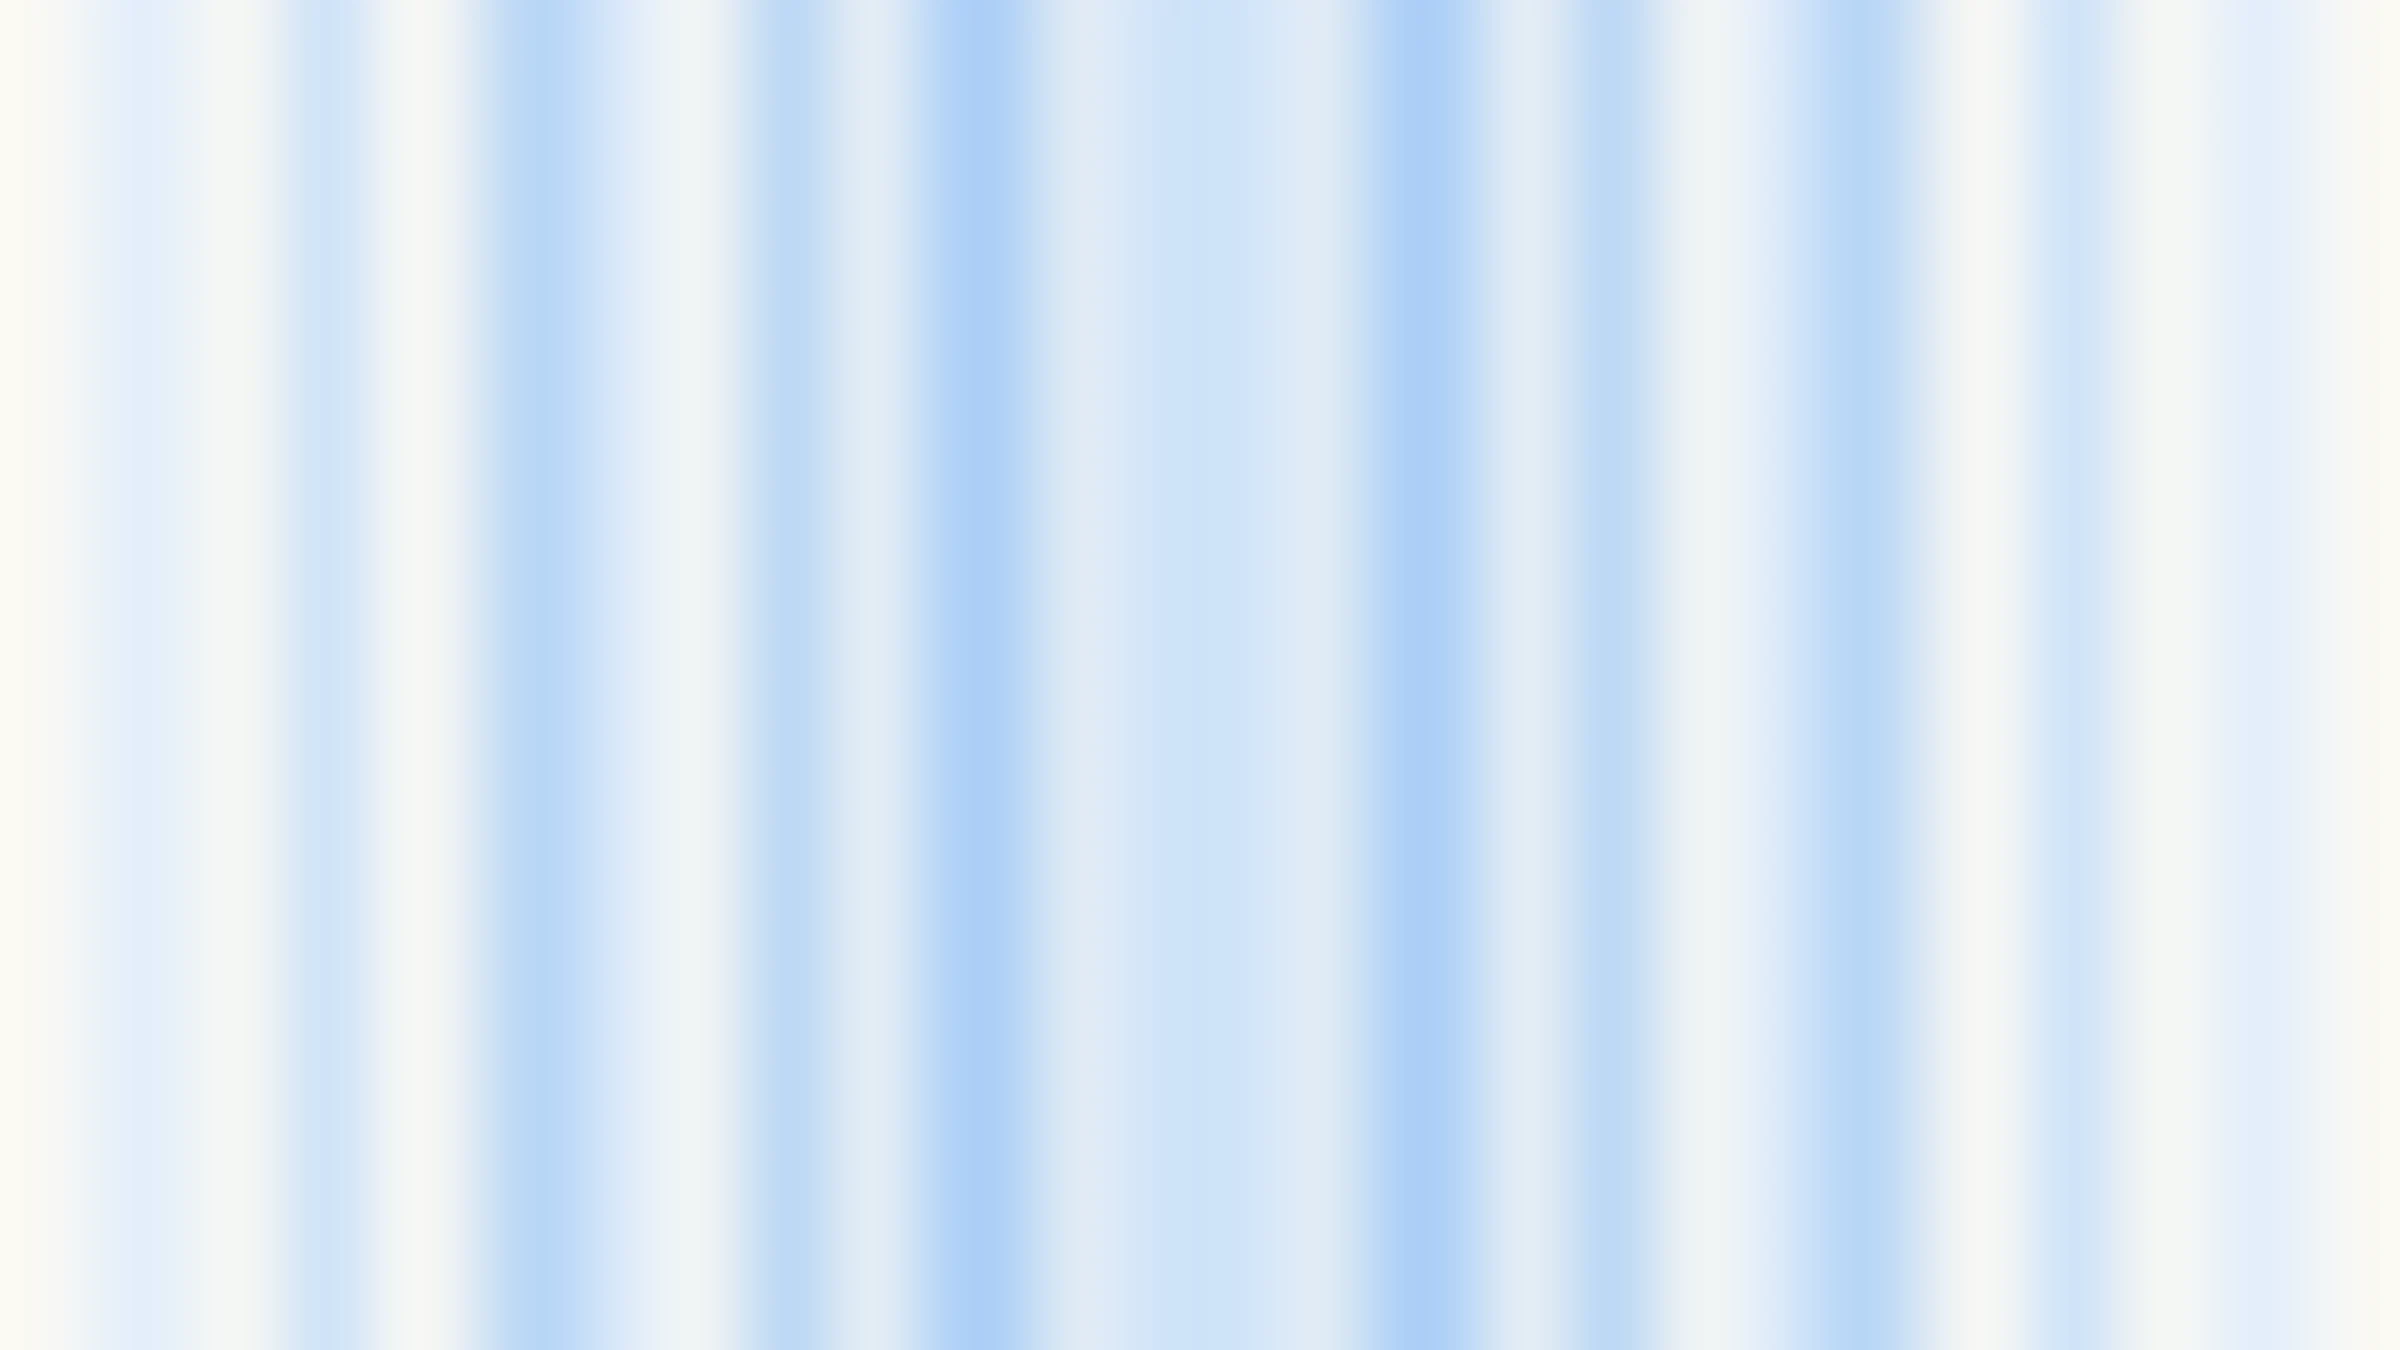
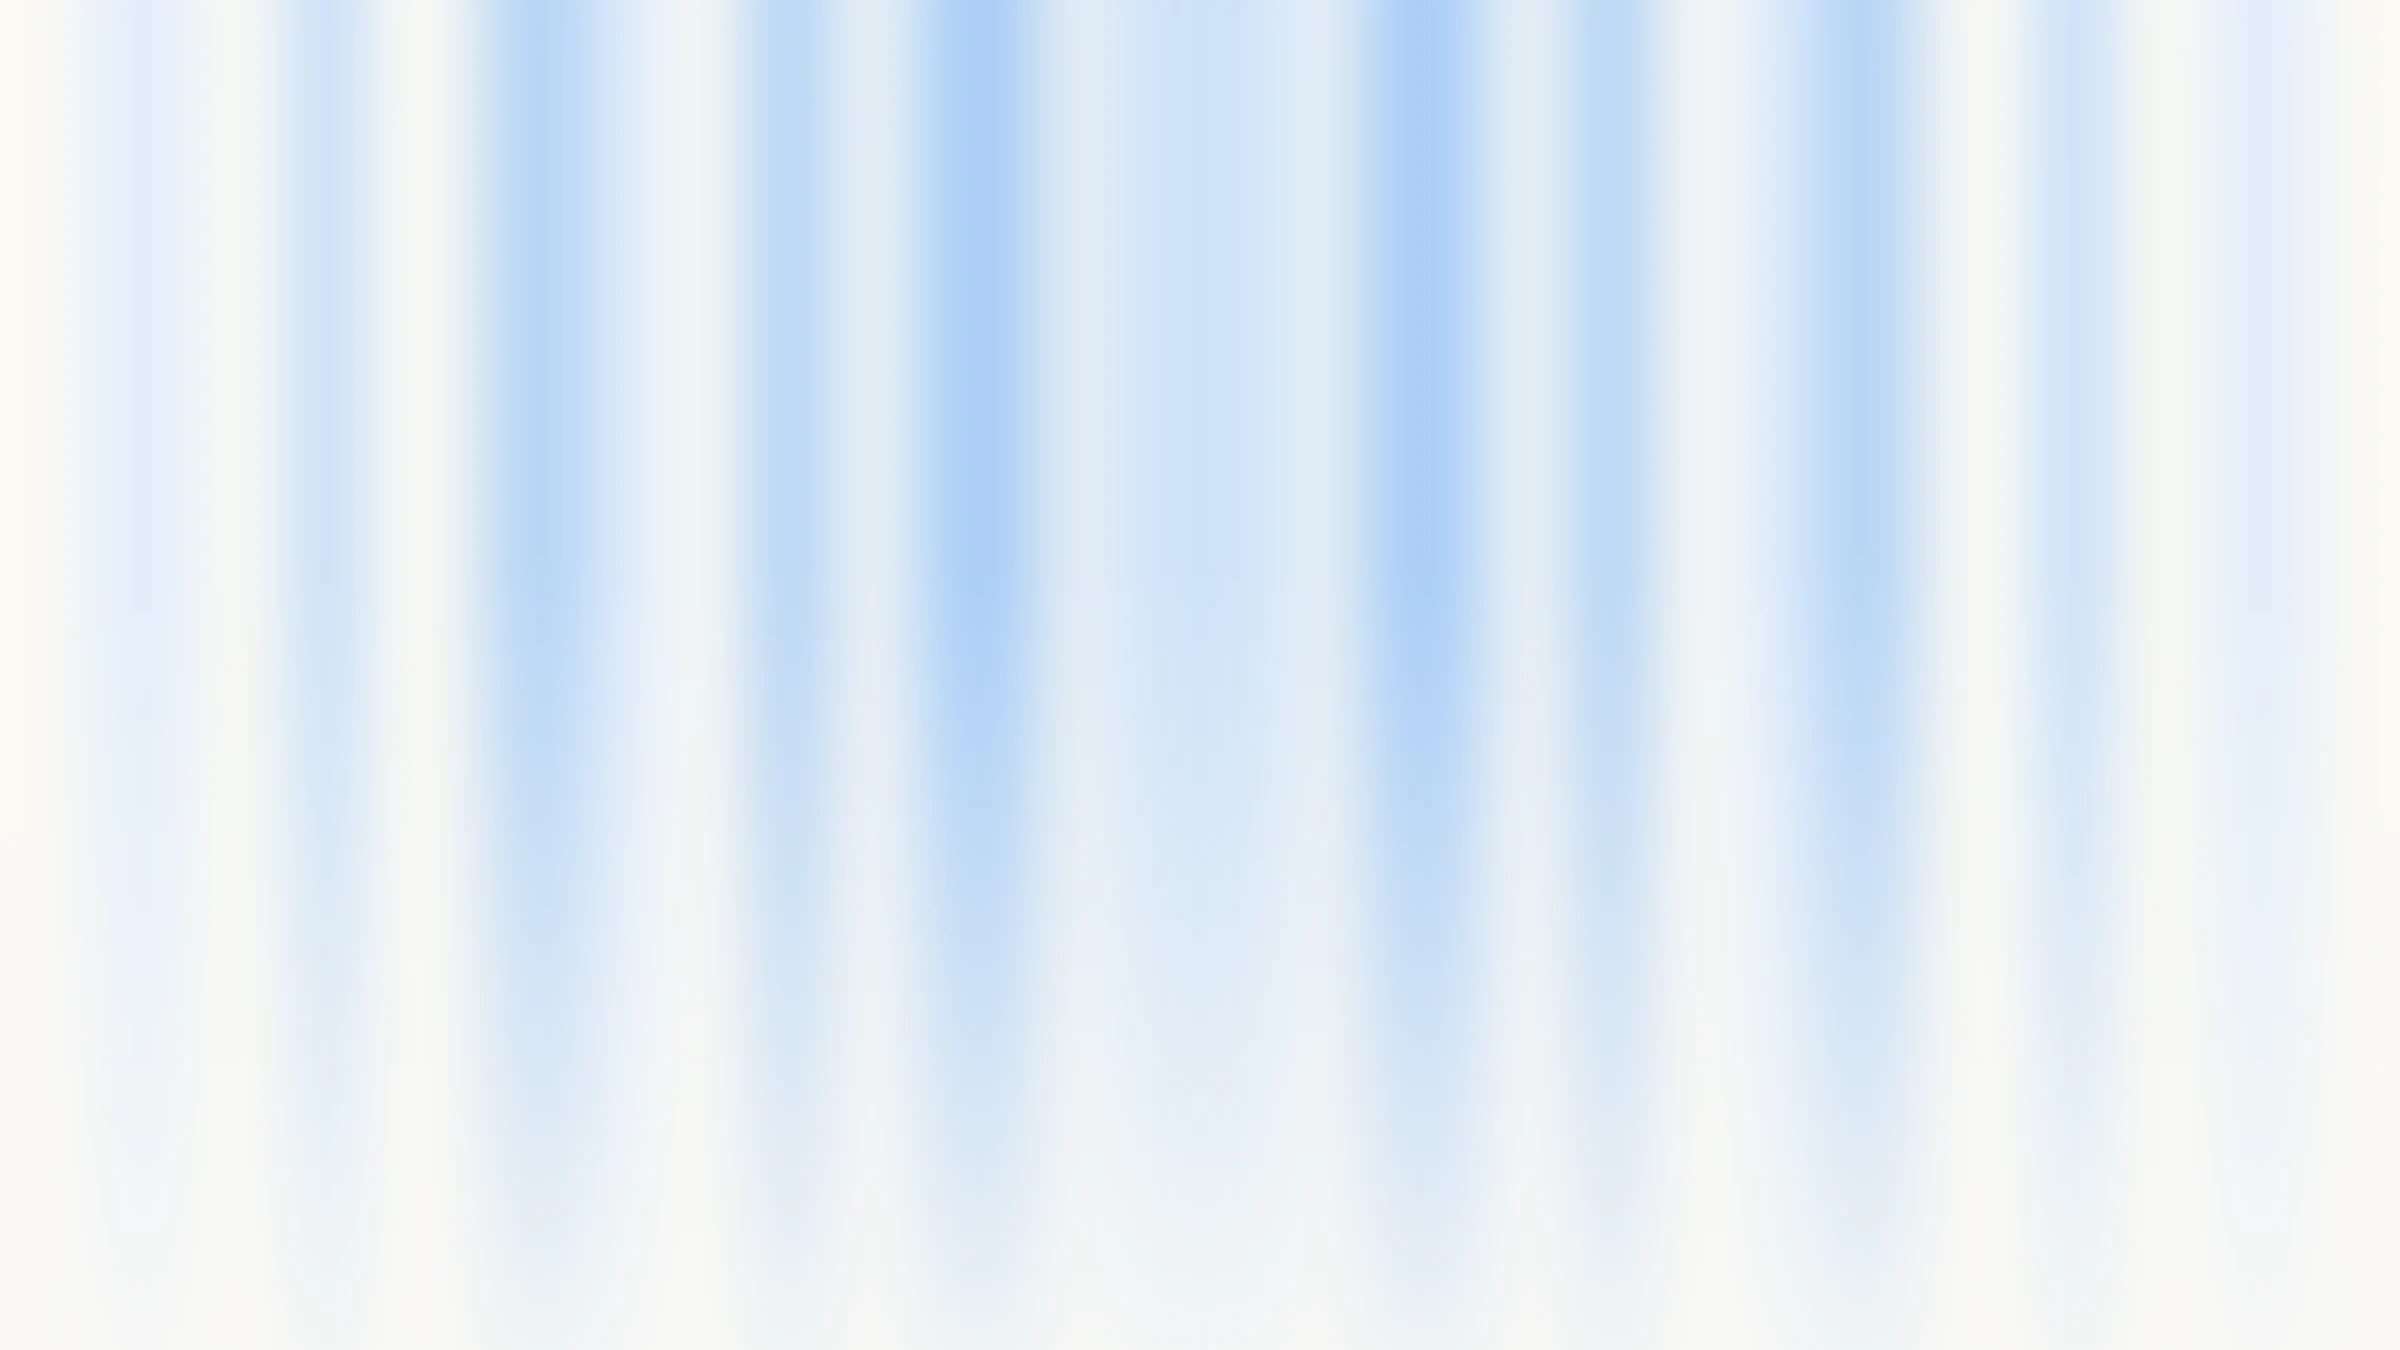
Painel de normas: listras do vidro se fundem no creme na parte de baixo

Changed region(s): [[0.1875, 0.6533, 0.8125, 1.0], [0.8438, 0.84, 0.9062, 1.0], [0.0938, 0.84, 0.1562, 1.0]]

diff --git a/painel-normas.html b/painel-normas.html
@@ -23,7 +23,7 @@
 <link rel="preconnect" href="https://fonts.googleapis.com">
 <link href="https://fonts.googleapis.com/css2?family=IBM+Plex+Sans+Condensed:wght@300;400;500;600;700&family=IBM+Plex+Mono:wght@300;400;500;600;700&family=IBM+Plex+Serif:wght@300;400;500;600;700&display=swap" rel="stylesheet">
 <link rel="stylesheet" href="css/style.css?v=115">
-<link rel="stylesheet" href="css/painel-normas.css?v=36">
+<link rel="stylesheet" href="css/painel-normas.css?v=37">
 <meta name="description" content="Andamento das normas ISO de sistemas de gestão, sustentabilidade e segurança: estágio, comitê, revisão sistemática e certificados por país. Fonte: ISO Open Data e ISO Survey.">
 <script>document.documentElement.classList.add('js');window.addEventListener('load',function(){setTimeout(function(){if(!document.querySelector('.in-view')){var n=document.querySelectorAll('.rot-sec,.sec,.content>*');for(var i=0;i<n.length;i++){n[i].classList.add('in-view');}}},1200);});</script>
 </head>

diff --git a/css/painel-normas.css b/css/painel-normas.css
@@ -432,6 +432,6 @@
 @media (min-width:981px){
   .pn{background:var(--creme,#FAF9F5)}
   .pn::before{display:none}
-  .pn-cab,.pn-lado,.pn-main{background:linear-gradient(var(--vidro),var(--vidro)),url(../img/fundo-painel-listras-fosco.webp) center/cover fixed;
+  .pn-cab,.pn-lado,.pn-main{background:linear-gradient(var(--vidro),var(--vidro)),url(../img/fundo-painel-listras-fosco.webp?v=2) center/cover fixed;
     -webkit-backdrop-filter:none;backdrop-filter:none}
 }

diff --git a/_ferramentas/fundo_listras.py b/_ferramentas/fundo_listras.py
@@ -26,6 +26,10 @@ def main():
     # 27/10, «os gaps fossem nada mesmo, só a cor de fundo»: o vidro passa a ser o fundo de cada placa (attachment fixed), com
     # as listras JÁ foscas: 22 px de desfoque na tela ≈ 34 px nesta imagem (2400 px cobrindo ~1536 px css) e saturação 1,35
     fosco = ImageEnhance.Color(im.filter(ImageFilter.GaussianBlur(34))).enhance(1.35)
+    # 27/10, 3º: «na parte de baixo da área glass, deixe menos azul as listras, mais próximas ao creme»: a partir de 40% da
+    # altura o creme vai cobrindo as listras até 85% na base
+    rampa = Image.new('L', (1, H)); rampa.putdata([0 if y < H * .4 else int(217 * ((y - H * .4) / (H * .6)) ** 1.2) for y in range(H)])
+    fosco = Image.composite(Image.new('RGB', (W, H), hx('#FAF9F5')), fosco, rampa.resize((W, H)))
     saida = RAIZ / 'img' / 'fundo-painel-listras-fosco.webp'; fosco.save(saida, quality=88)
     print(saida.name, saida.stat().st_size // 1024, 'KB')
 

diff --git a/CLAUDE.md b/CLAUDE.md
@@ -99,7 +99,7 @@ Regra da casa: o que o Leandro corrige numa página vira padrão do site inteiro
 - **Fundo em mosaico (27/10/2026, referência mozayk.design; «figuras muito mais claras, muito mais próximas da cor do fundo… mais figuras, com outras formas»):** no computador o fundo do painel é `img/fundo-painel-mosaico.webp`, gerado por `_ferramentas/fundo_mosaico.py` (semente fixa): base `#DDE8F4`, células de 150 px, 55% delas com uma figura (quadrado, triângulo, losango, círculo, quarto e meio círculo, faixa, quadrado menor) em seis tons a poucos pontos do fundo (`#E9F0F8 #F3F7FB #FFFFFF #D2E0F0 #C9DAEE #E4ECF6`), grade branca fina e cruzes «+» azuis a 35%. Recusados no caminho: losangos coloridos, mosaico com blocos desfocados e tinta (poluído), fundo escuro. O vidro das placas ficou com desfoque de 7 px e 58% de branco, para as figuras aparecerem através delas. O `fundo-painel-vidro.webp` antigo fica no repositório sem uso.
 - **Fundo com o pássaro (27/10/2026, «colocar o pássaro da Ideal Metrics de fundo, mais claro, iluminado como o globo… o resto do fundo com um azul mais claro»):** RECUSADO no mesmo dia («não ficou legal o pássaro»), guardado: `img/fundo-painel-passaro.webp`, gerado por `_ferramentas/fundo_passaro.py` a partir de `img/passaro-ideal-m.svg` (só a silhueta, nunca redesenhada): degradê diagonal `#D3E3F4` → `#A6C3E3`, pássaro branco com luz radial do alto à esquerda (até `#C8DBEF`), halo branco, sombra `#6E93BC` embaixo à direita e fio de luz na borda de cima. Vidro das placas a 42% de branco e 7 px de desfoque. 2º ajuste no mesmo dia («mais nítido, mais parecido com a cor de fundo, globo mais transparente na área marítima»): pássaro sem halo, feito do próprio fundo clareado (35% de branco no alto à esquerda, 12% embaixo), sombra curta (6/9 px, desfoque 5) e fio de luz de 3 px; desfoque do vidro em 3 px; oceano do globo com brilho de 22% (antes 42%) e 4% no meio. Guardados para voltar: mosaico claro (`fundo-painel-mosaico.webp`, commit `baab338`) e manchas (`fundo-painel-vidro.webp`); trocar a url no último bloco do CSS.
 - **Fundo com o GLIFO (27/10/2026, «tente os glifos… azul mais vívido» e, logo depois, «quando digo glifo, quero dizer esse», mostrando os seis losangos):** O GLIFO da Ideal Metrics é o símbolo dos SEIS LOSANGOS (2 fileiras de 3, `viewBox 0 0 22 14`) das etiquetas Guia e Navegação (`js/gaveta.js`), NÃO os símbolos do mosaico de parede. VIGENTE no computador: `img/fundo-painel-glifos.webp` (`?v=2` no CSS), gerado por `_ferramentas/fundo_glifos.py`: degradê azul suave `#A9C3E3` → `#CBDCEF` (o vívido `#2E6FC7` → `#5C9BE8` foi recusado: «o azul tem que ser menos azul»), células de 150 px, 45% com um glifo centrado de 55 a 220 px de largura, em azuis (`#2E6FC7 #336699 #4F86C6 #1F57A8`, 25 a 50%) e um branco («os glifos devem ser mais azulados»), grade branca a 12% e cruzes. Vidro a 50% de branco e 4 px de desfoque. Armadilhas do gerador: o MuPDF não pinta gradiente de SVG (degradê feito no PIL) e devolve pixel pré-multiplicado (abrir como `RGBa`).
-- **Creme e listras (27/10/2026):** depois dos glifos («não ficou legal, vamos voltar mais para esse [manchas]… o creme não teria como ser»), o vidro de manchas voltou (22 px, 46%) sobre CREME: `img/fundo-painel-creme.webp` (`_ferramentas/fundo_manchas.py`, commit `2b2d4eb`). Em seguida, «um monte de linhas geométricas simétricas uma ao lado da outra, de várias cores da empresa… na vertical»: VIGENTE `img/fundo-painel-listras.webp` (`_ferramentas/fundo_listras.py`): listras verticais de 8 a 84 px espelhadas no meio, só em tons claros desde o 2º ajuste («menos contrastes, e mais claras»): creme, `#EEF3F9 #E2ECF7 #D3E2F2 #C4D8EE #B3CDEA #9FC5F0` (sem tinta nem azul forte), atrás do vidro fosco de 22 px. Vãos entre as placas LISOS, só o creme («eu gostaria que os gaps fossem nada mesmo, só a cor de fundo»; a película fosca no fundo inteiro foi recusada): o `.pn` é só `var(--creme)` e cada placa leva `linear-gradient(var(--vidro)) + url(img/fundo-painel-listras-fosco.webp) center/cover fixed`, listras já desfocadas na imagem (34 px ≈ 22 px de tela, saturação 1,35, gerada pelo mesmo script); `fixed` faz as três placas mostrarem um fundo contínuo. Sem `backdrop-filter` nas placas. Para trocar de fundo, mudar a url no último bloco do `painel-normas.css`.
+- **Creme e listras (27/10/2026):** depois dos glifos («não ficou legal, vamos voltar mais para esse [manchas]… o creme não teria como ser»), o vidro de manchas voltou (22 px, 46%) sobre CREME: `img/fundo-painel-creme.webp` (`_ferramentas/fundo_manchas.py`, commit `2b2d4eb`). Em seguida, «um monte de linhas geométricas simétricas uma ao lado da outra, de várias cores da empresa… na vertical»: VIGENTE `img/fundo-painel-listras.webp` (`_ferramentas/fundo_listras.py`): listras verticais de 8 a 84 px espelhadas no meio, só em tons claros desde o 2º ajuste («menos contrastes, e mais claras»): creme, `#EEF3F9 #E2ECF7 #D3E2F2 #C4D8EE #B3CDEA #9FC5F0` (sem tinta nem azul forte), atrás do vidro fosco de 22 px. Vãos entre as placas LISOS, só o creme («eu gostaria que os gaps fossem nada mesmo, só a cor de fundo»; a película fosca no fundo inteiro foi recusada): o `.pn` é só `var(--creme)` e cada placa leva `linear-gradient(var(--vidro)) + url(img/fundo-painel-listras-fosco.webp) center/cover fixed`, listras já desfocadas na imagem (34 px ≈ 22 px de tela, saturação 1,35, gerada pelo mesmo script); `fixed` faz as três placas mostrarem um fundo contínuo. Embaixo as listras se fundem no creme («na parte de baixo da área glass, deixe menos azul as listras, mais próximas ao creme»): a partir de 40% da altura o creme cobre as listras até 85% na base (só na imagem fosca). Sem `backdrop-filter` nas placas. Para trocar de fundo, mudar a url no último bloco do `painel-normas.css`.
 - **Atualização semanal:** a rotina agendada «Ballots ISO/ABNT» (segunda, 9h) roda `python _ferramentas/painel_normas.py` (sem `--cache`) e commita os dois JSON de `dados/`. Push continua só quando o Leandro mandar.
 - Menu: item «Painel de normas ISO» na coluna Estudos e pesquisa aplicada (`blocos.py`, ícone `painel`). Páginas de serviço ligadas às normas em `PAGINA` no gerador; a ficha da norma mostra o link «Serviço da Ideal Metrics nesta norma» quando existe.
 
